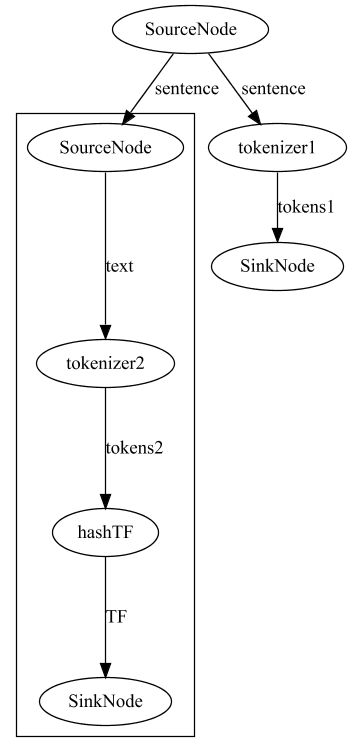
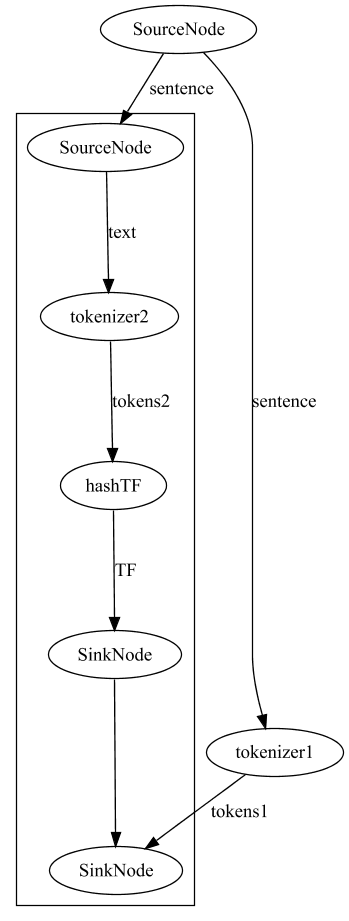
bug in graphviz-java package switch to another methods

diff --git a/src/main/java/core/graphPipeline/basic/SGraph.java b/src/main/java/core/graphPipeline/basic/SGraph.java
@@ -421,10 +421,12 @@ public class SGraph extends Vertex {
                 MutableGraph fromSubGraph = (MutableGraph) from;
                 fromSubGraph = fromSubGraph.setCluster(true);
                 Vertex fromSubGraphSinkNode = ((SGraph) sourceVertex).sinkNode;
-                LinkSource sinkNode = mutNode(fromSubGraphSinkNode.getVertexId()).asLinkSource();
+                //LinkSource sinkNode = fromSubGraph.nodes().stream().filter(x -> x.name().value().equals(fromSubGraphSinkNode.getVertexId())).findFirst().get();
+                Node sinkNode = node(fromSubGraphSinkNode.getVertexId());
                 for (Vertex targetVertex : sourceVertex.getOutputVertices()) {
                     LinkTarget toTarget = nodeMap.get(targetVertex).asLinkTarget();
-                    sinkNode.links().add(sinkNode.linkTo(toTarget).with(Label.of(linkLabel)));
+                    //sinkNode.links().add(sinkNode.linkTo(toTarget).with(Label.of(linkLabel)));
+                    fromSubGraph.add(sinkNode.link(toTarget));
                 }
             }
         }
